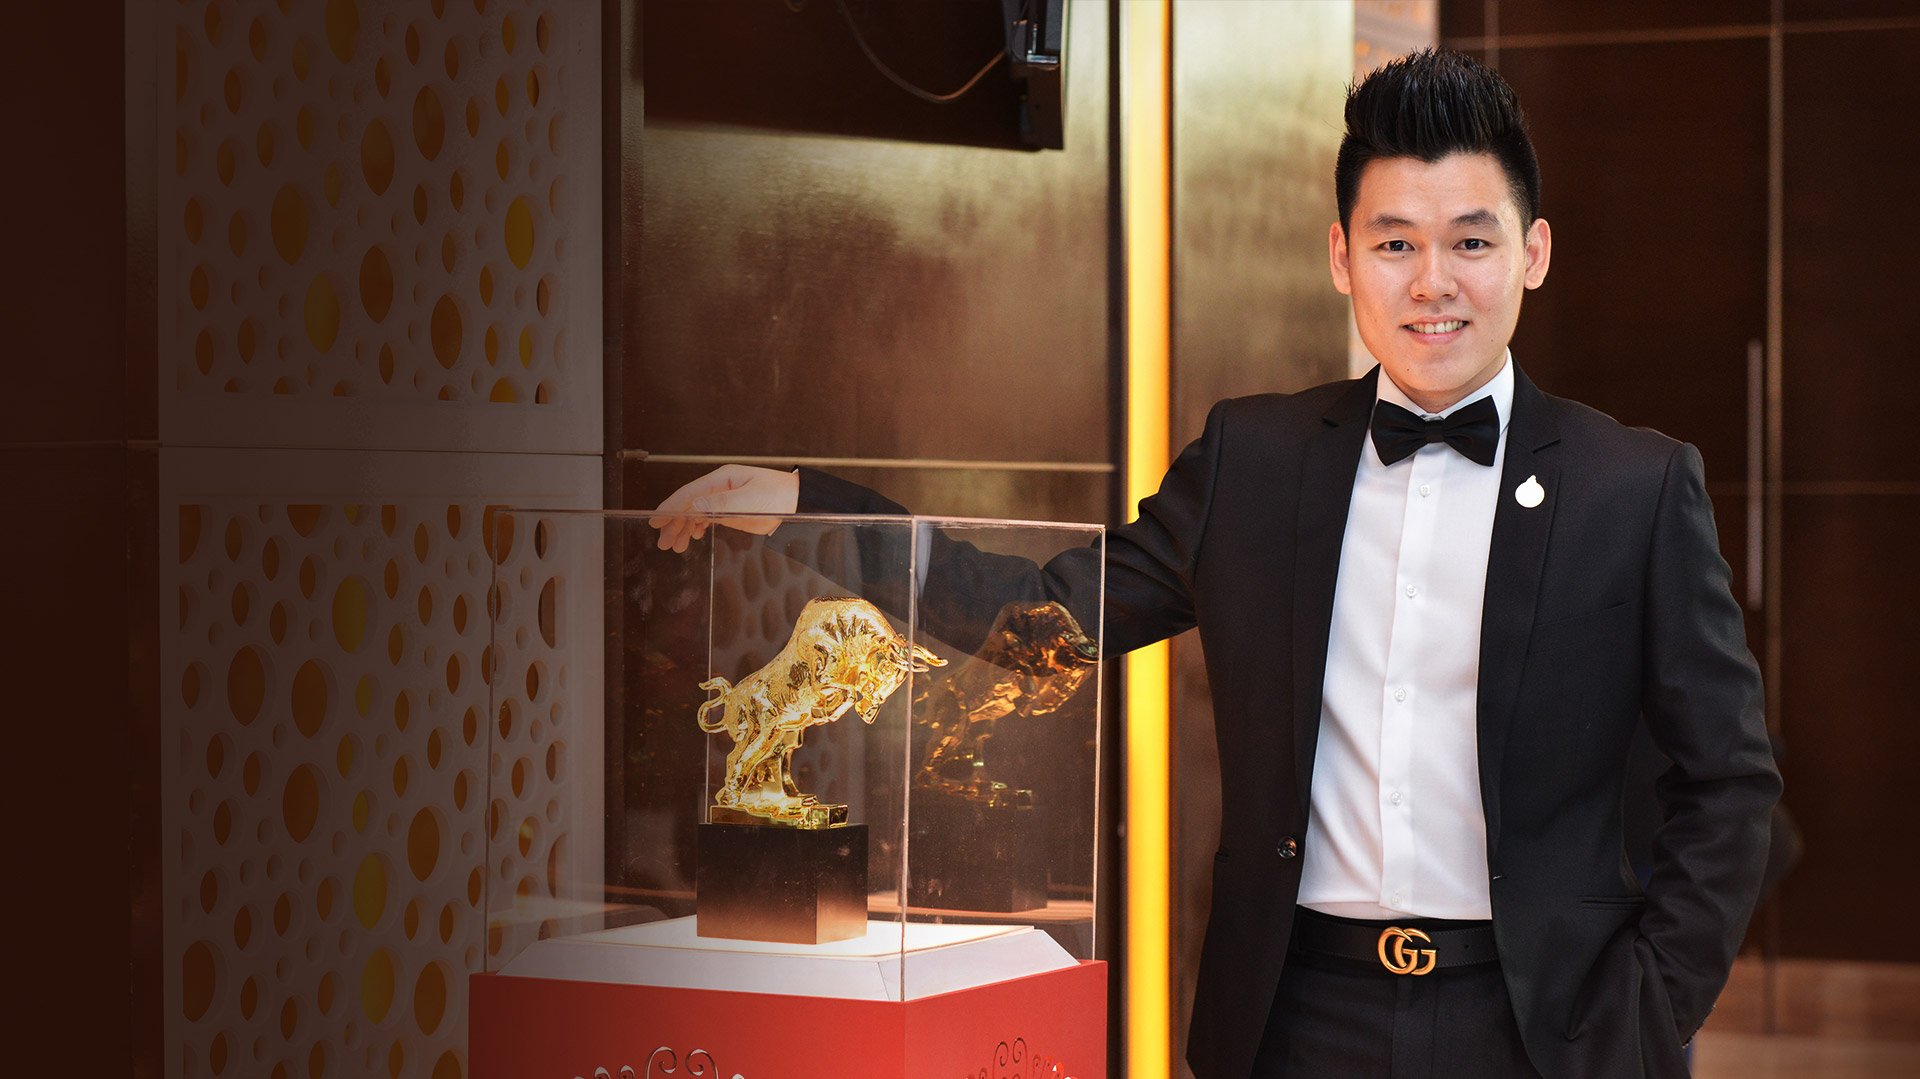
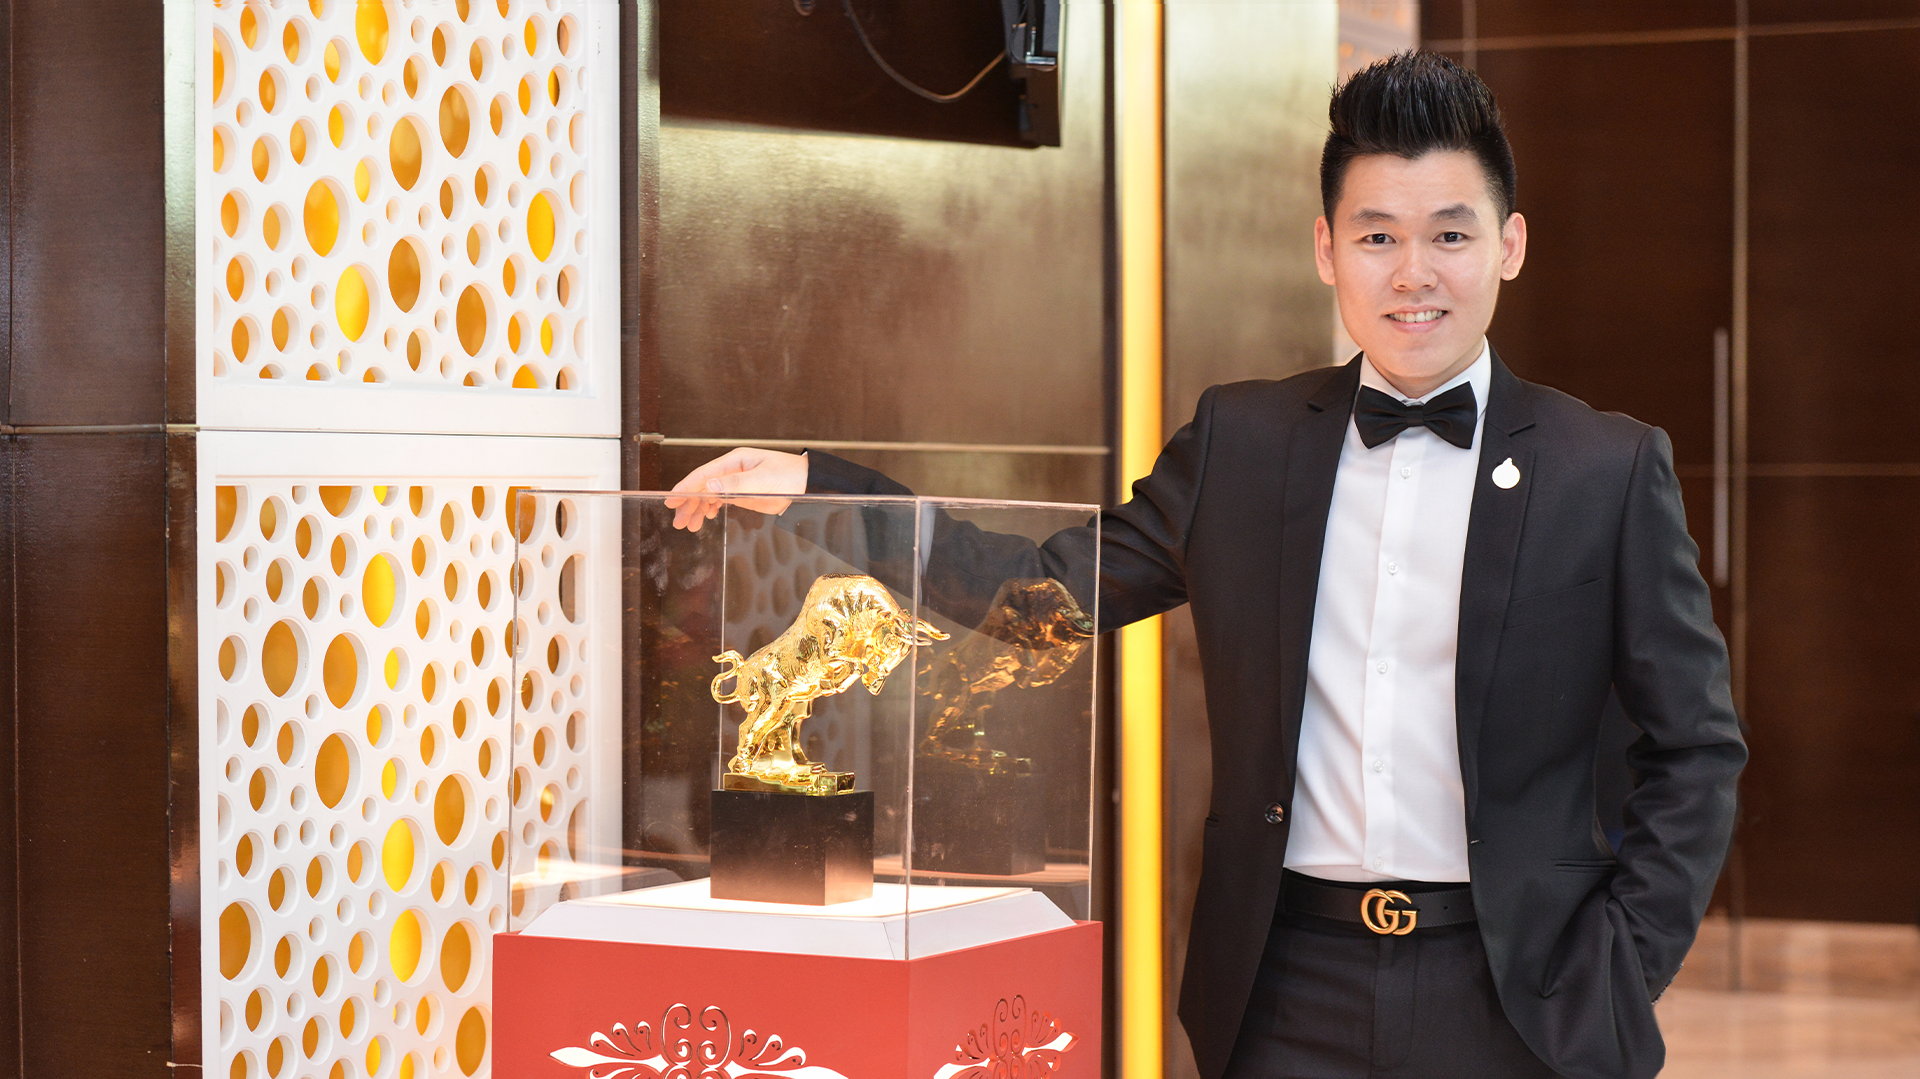
bg

diff --git a/public/css/global-style.css b/public/css/global-style.css
@@ -494,7 +494,7 @@ footer .reserved {
 
   .bg-partner3 {
     background: url(../assets/images/dr_eric/cover-dr-eric-mobile.jpg) no-repeat
-      center center;
+      top center;
     background-size: cover;
   }
 
